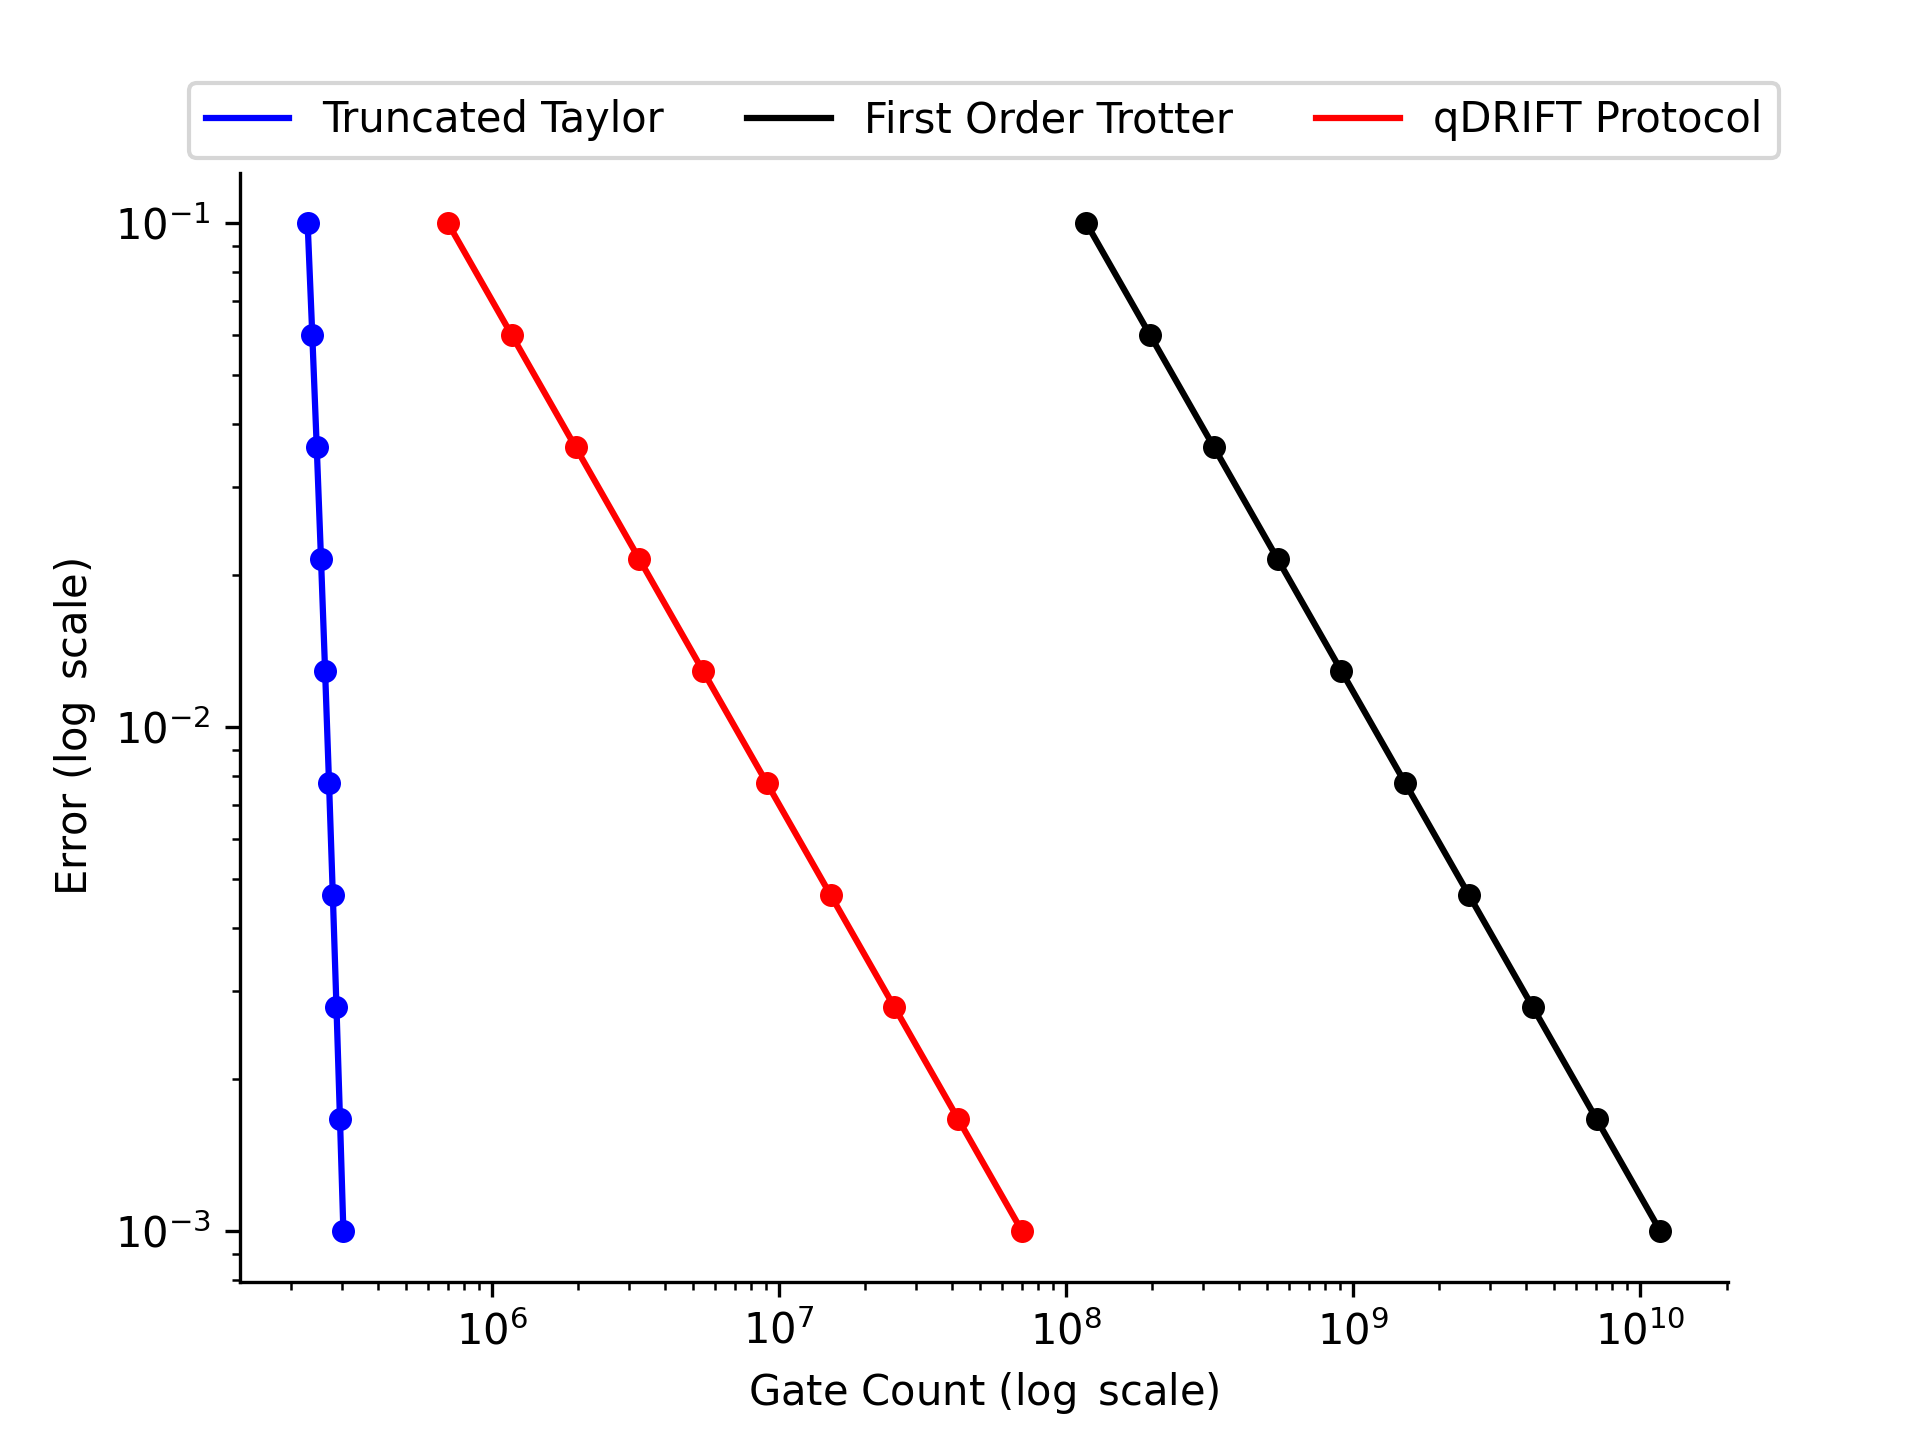
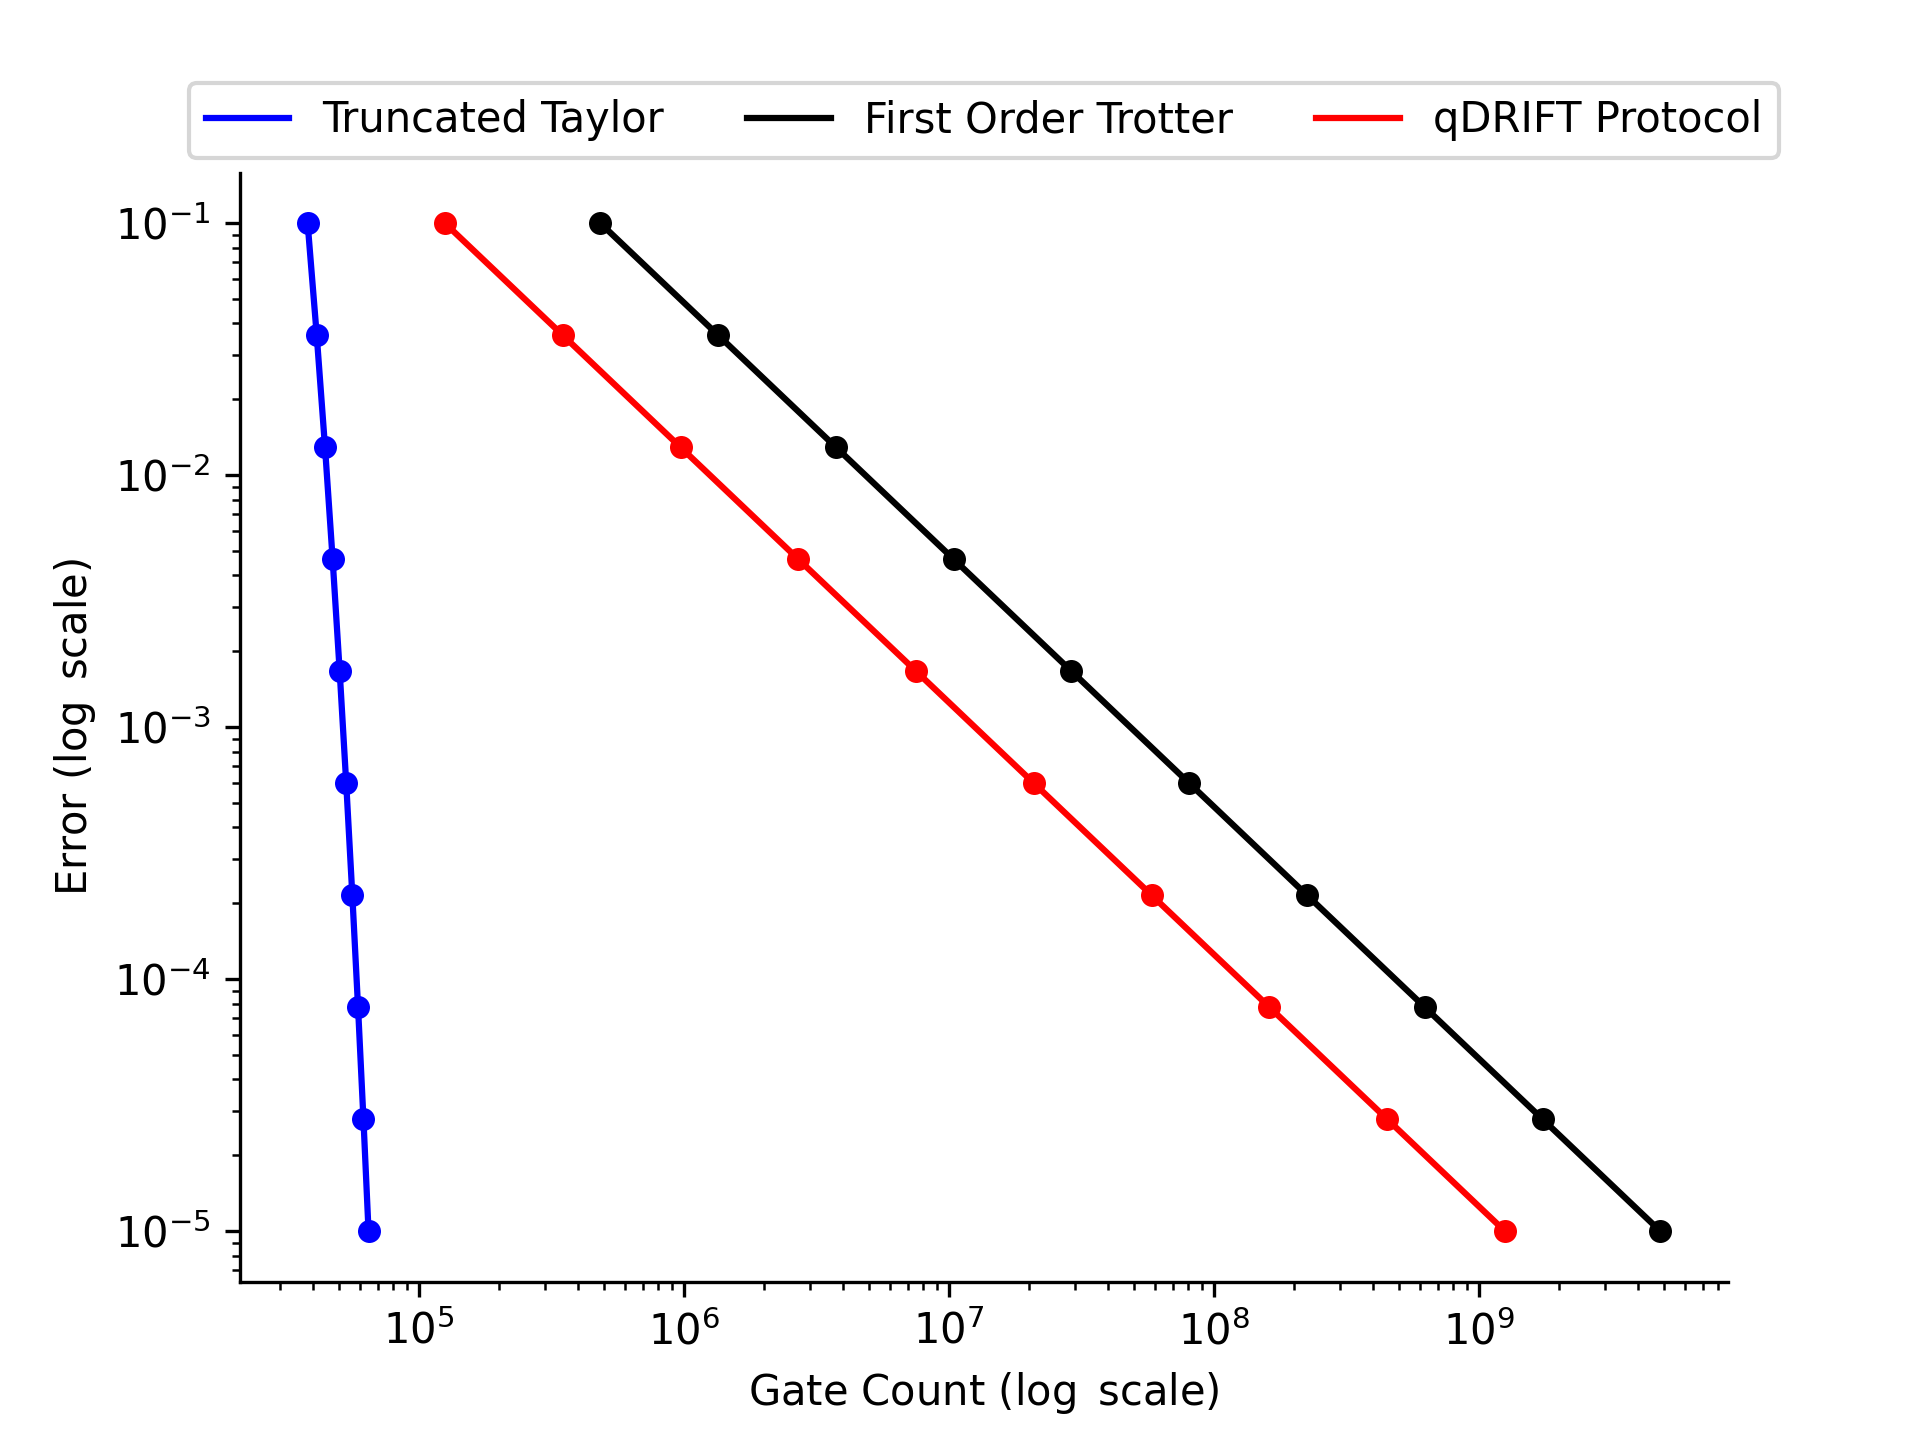
added another plot

diff --git a/ising/benchmark/gate_err_time.py b/ising/benchmark/gate_err_time.py
@@ -2,30 +2,37 @@ import matplotlib.pyplot as plt
 import numpy as np
 import seaborn as sns
 
-from ising.hamiltonian import parametrized_ising, trotter_reps, qdrift_count
+from ising.hamiltonian import parametrized_ising
 from ising.benchmark.sim_function import (
     taylor_gate_count,
+    trotter_gate_count_ising,
+    qdrift_gate_count,
 )
 
 
-def plot_gate_error(qubit, h_val, error, point_count, obs_norm, start_time, end_time):
+def plot_gate_error(
+    qubit, h_val, start_err_exp, end_err_exp, point_count, obs_norm, time
+):
     fig, ax = plt.subplots()
 
     configs = {
         "taylor": {"color": "blue", "label": "Truncated Taylor"},
-        "trotter": {"color": "black", "label": "First Order Trotter"},
+        # "trotter": {"color": "black", "label": "First Order Trotter"},
         "qdrift": {"color": "red", "label": "qDRIFT Protocol"},
     }
 
-    time_points = [x for x in np.linspace(start_time, end_time, point_count)]
-    ham = parametrized_ising(qubit, h_val)
-    lambd = np.sum(np.abs(ham.coeffs))
-
+    error_points = [
+        10**x for x in np.linspace(start_err_exp, end_err_exp, point_count)
+    ]
     taylor, trotter, qdrift = [], [], []
-    for time in time_points:
+    ham = parametrized_ising(qubit, h_val)
+
+    inv_err = [1 / x for x in error_points]
+
+    for error in error_points:
         taylor.append(taylor_gate_count(ham, time, error, obs_norm))
-        trotter.append(qubit * trotter_reps(qubit, h_val, time, error))
-        qdrift.append(qdrift_count(lambd, time, error))
+        trotter.append(trotter_gate_count_ising(ham, time, error))
+        qdrift.append(qdrift_gate_count(ham, time, error))
 
     results = {"taylor": taylor, "trotter": trotter, "qdrift": qdrift}
 
@@ -33,29 +40,26 @@ def plot_gate_error(qubit, h_val, error, point_count, obs_norm, start_time, end_
         result = results[method]
         sns.lineplot(
             y=result,
-            x=time_points,
+            x=error_points,
             ax=ax,
             label=config["label"],
             color=config["color"],
         )
-
-        sns.scatterplot(y=result, x=time_points, ax=ax, color=config["color"])
+        sns.scatterplot(y=result, x=error_points, ax=ax, color=config["color"])
 
     # SETTING: AXIS VISIBILITY
     ax.spines["top"].set_visible(False)
     ax.spines["right"].set_visible(False)
 
-    # ax.invert_xaxis()
-    # ax.set_xscale("log")
+    ax.invert_xaxis()
+    ax.set_xscale("log")
     ax.set_yscale("log")
-    ax.set_xlabel(r"time ($t$)")
-    ax.set_ylabel(r"Logarithmic Gate Depth")
-
-    # ax.set_title("Depth vs Time for Simulation Techniques")
+    ax.set_xlabel(r"Error ($\log$ scale)")
+    ax.set_ylabel(r"Gate Count ($\log$ scale)")
 
     plt.legend(loc="upper center", bbox_to_anchor=(0.5, 1.10), ncol=3, fontsize=10)
     # plt.legend()
-    diagram_name = "plots/benchmark/gate_time.png"
+    diagram_name = "plots/benchmark/gate_count_err.png"
     print(f"Saving diagram at:{diagram_name}")
     plt.savefig(diagram_name, dpi=300)
 
@@ -63,17 +67,11 @@ def plot_gate_error(qubit, h_val, error, point_count, obs_norm, start_time, end_
 if __name__ == "__main__":
     qubit = 6
     h_val = 0.1
-    start_time, end_time = 1, 20
+    start_err_exp = -1
+    end_err_exp = -5
     point_count = 10
     obs_norm = 1
-    error = 0.1
-
+    time = 20
     plot_gate_error(
-        qubit,
-        h_val,
-        error,
-        point_count,
-        obs_norm,
-        start_time,
-        end_time,
+        qubit, h_val, start_err_exp, end_err_exp, point_count, obs_norm, time
     )

diff --git a/ising/benchmark/sim_function.py b/ising/benchmark/sim_function.py
@@ -1,6 +1,13 @@
 import numpy as np
 from ising.hamiltonian import Hamiltonian
 
+def trotter_gate_count_ising(ham: Hamiltonian, time: float, err: float) -> int:
+    """
+    First order trotterization gate count for given parameters.
+    """
+    max_lambd = np.max(np.abs(ham.coeffs))
+    l = len(ham.paulis)
+    return np.ceil((l**2) * ((max_lambd * time) ** 2) / err)
 
 def trotter_gate_count(ham: Hamiltonian, time: float, err: float) -> int:
     """
